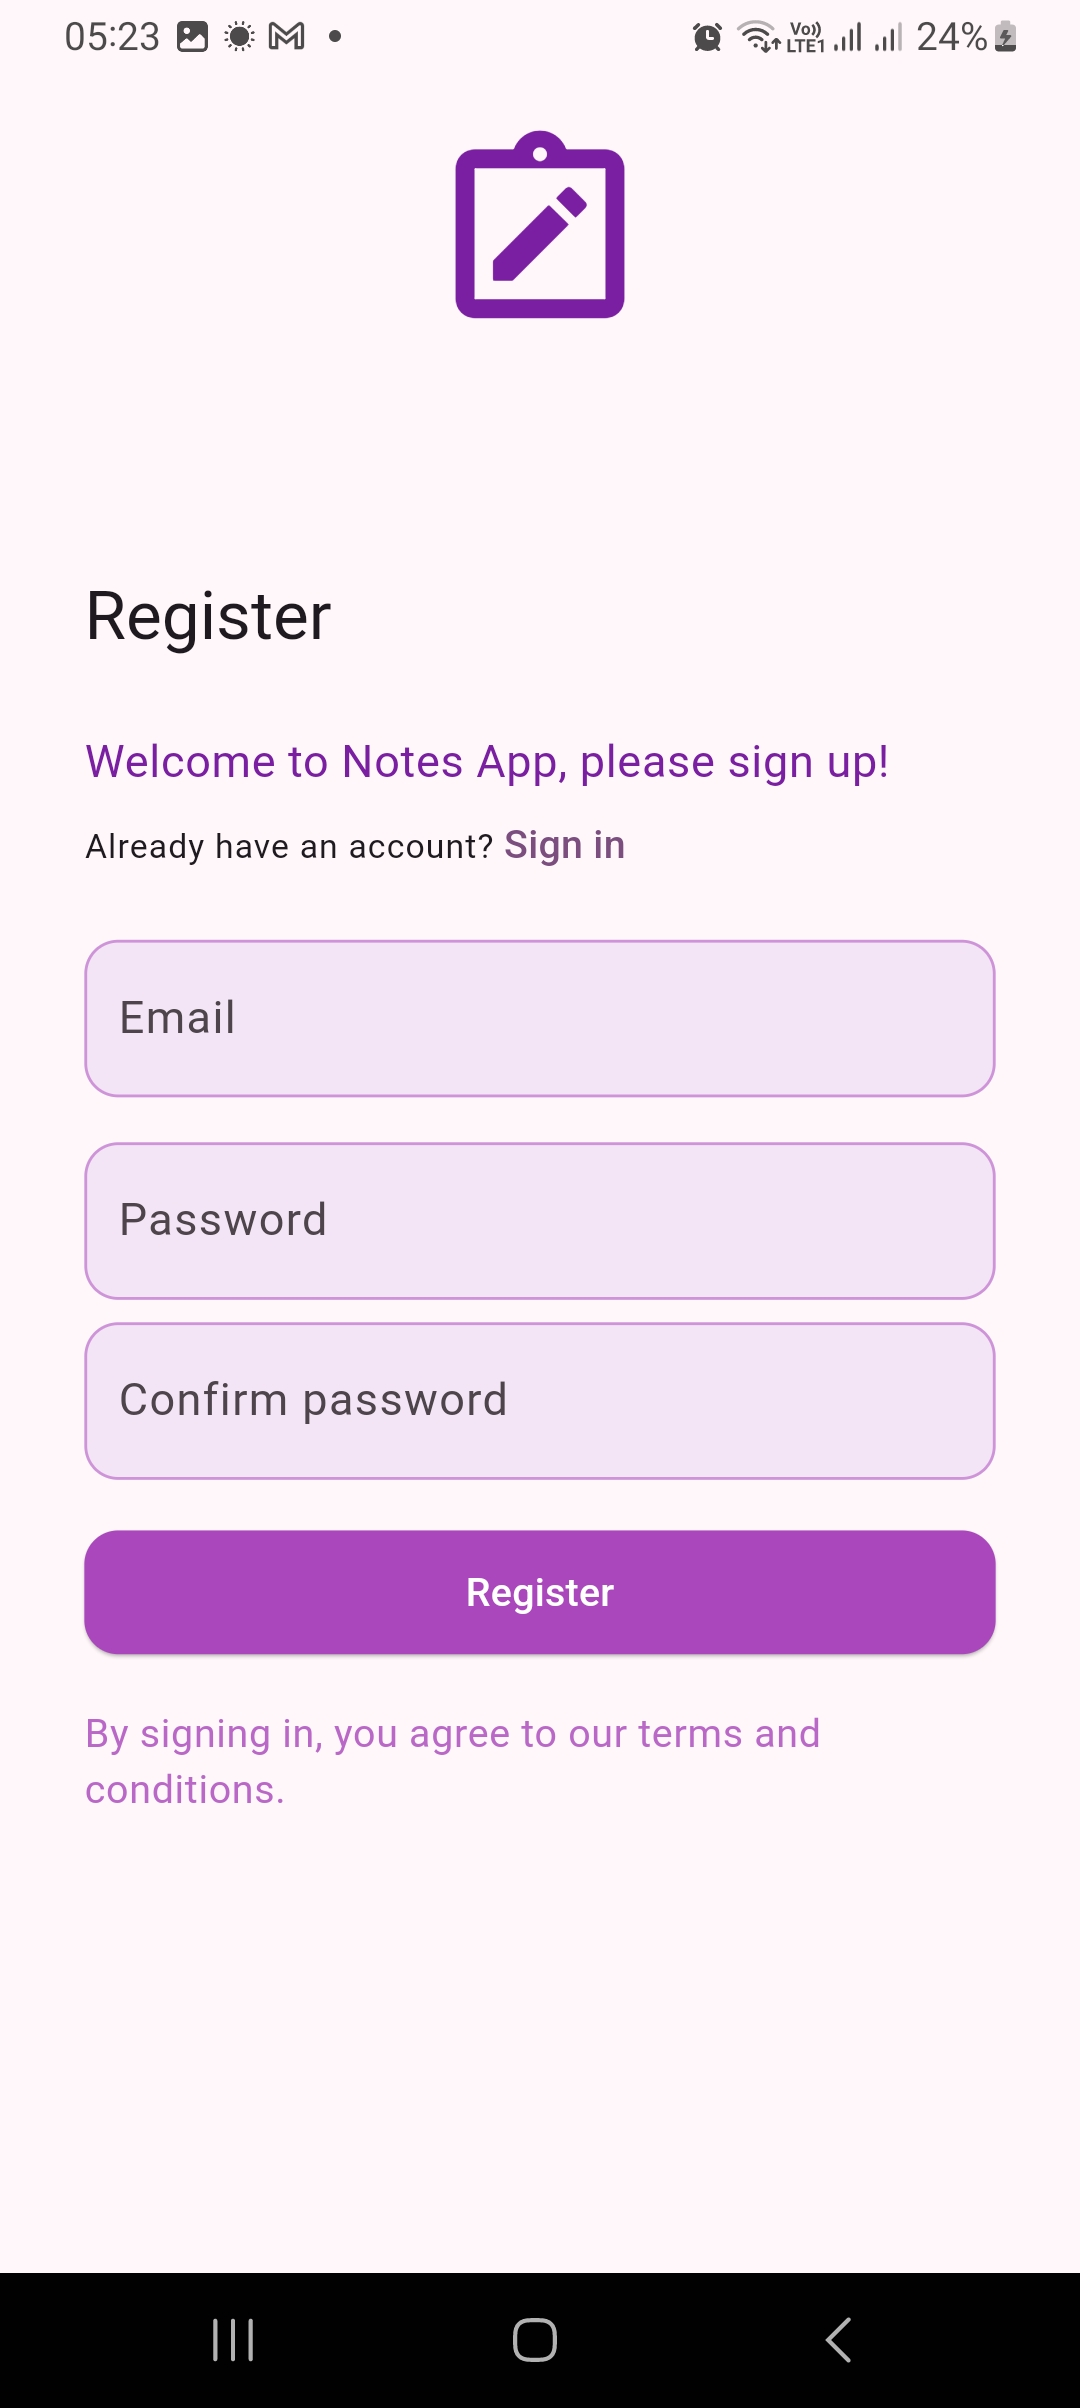
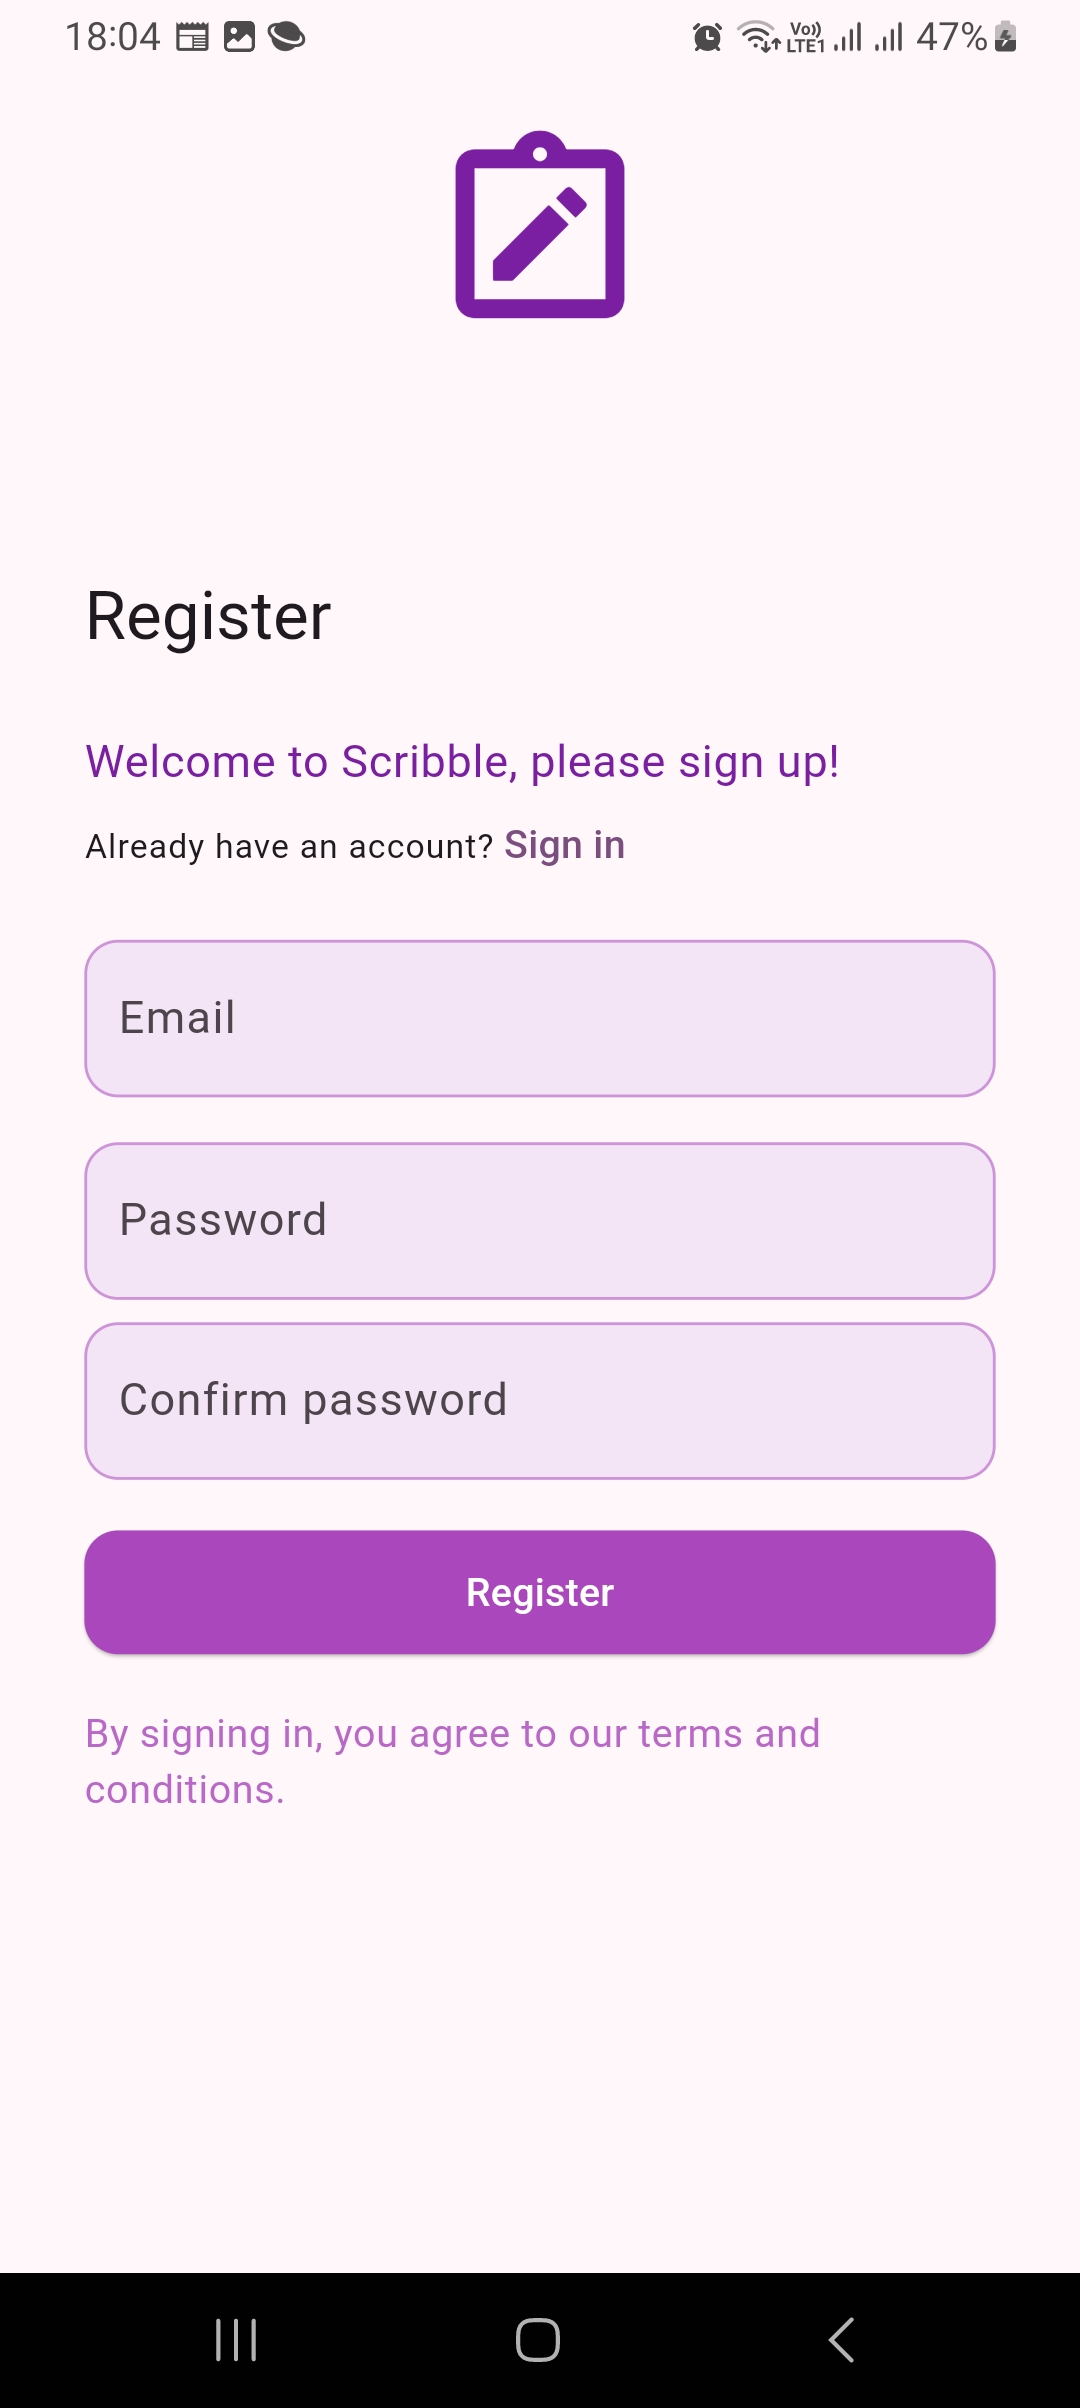
updated screenshots

diff --git a/lib/ui/screens/auth_gate.dart b/lib/ui/screens/auth_gate.dart
@@ -26,14 +26,14 @@ class AuthGate extends StatelessWidget {
           padding: const EdgeInsets.symmetric(vertical: 8.0),
           child: action == AuthAction.signIn
               ? Text(
-            'Welcome to Notes App, please sign in!',
+            'Welcome to Scribble, please sign in!',
             style: TextStyle(
               color: Colors.purple[700],
               fontSize: 16,
             ),
           )
               : Text(
-            'Welcome to Notes App, please sign up!',
+            'Welcome to Scribble, please sign up!',
             style: TextStyle(
               color: Colors.purple[700],
               fontSize: 16,
